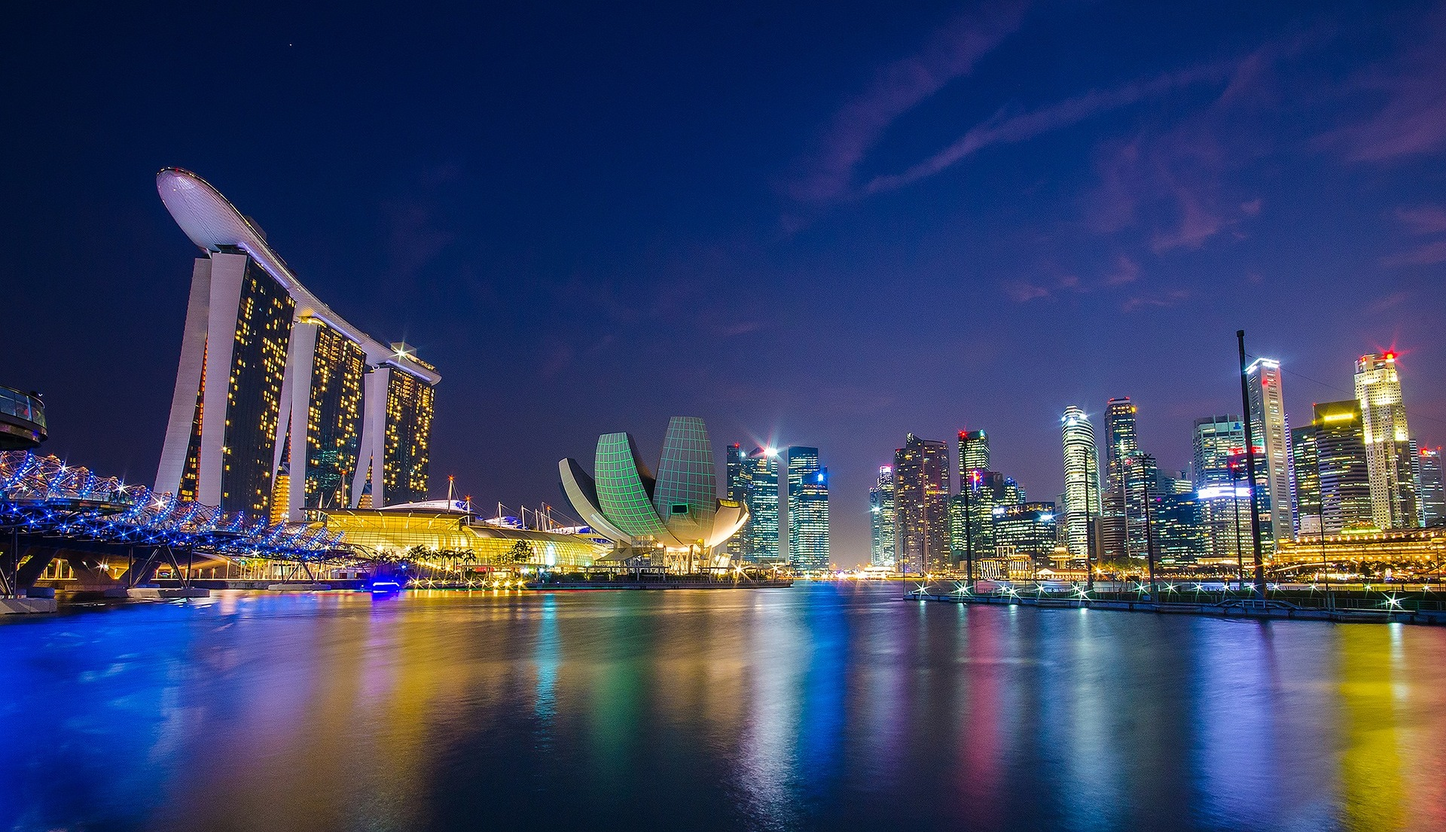
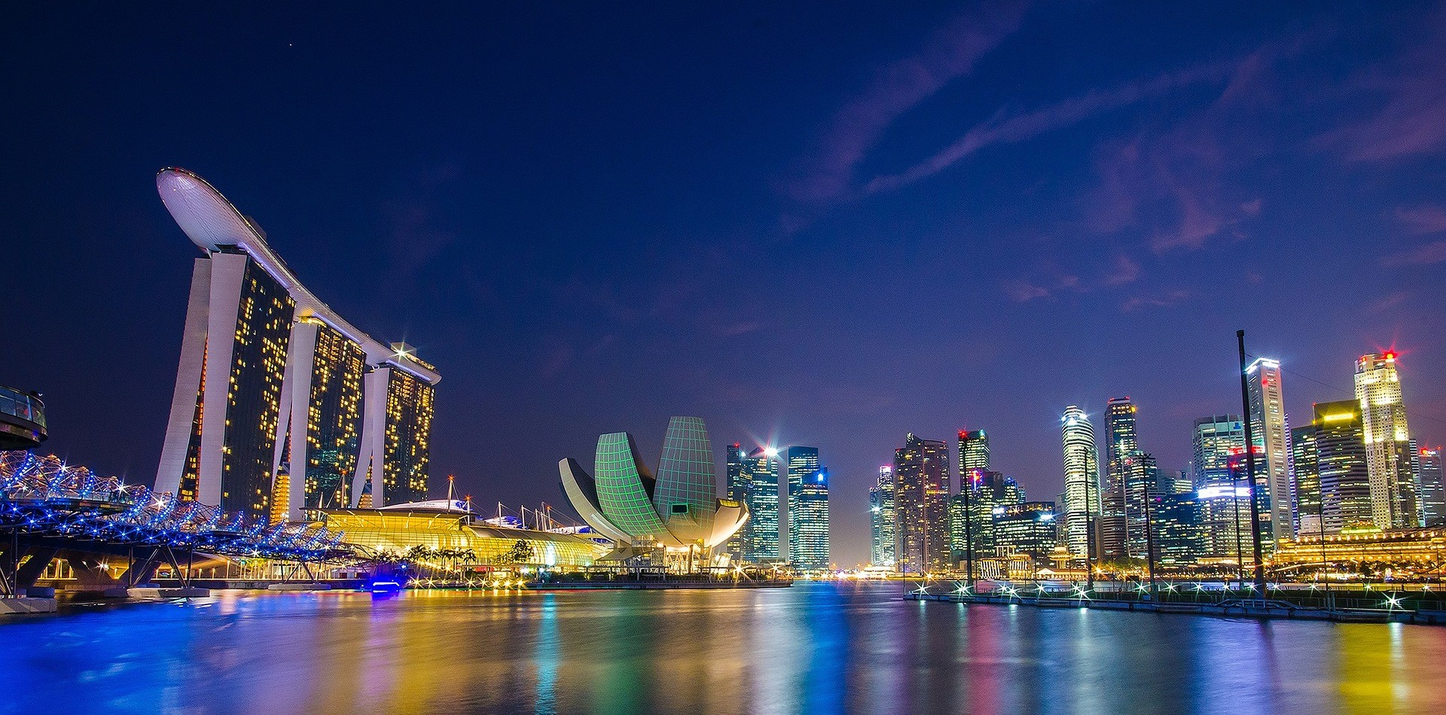
7.1.7

diff --git a/index.html b/index.html
@@ -1,3 +1,6 @@
+<!-- ===============
+CREATED BY ENERLINK 
+==================== --> 
 <!doctype html>
 <html lang="en">
 <head>
@@ -40,7 +43,7 @@
 </header>
 
 <section class="hero">
-  <div class="hero-media" style="background-image:url('assets/img/hero-Singaporehub.jpg')"></div>
+  <div class="hero-media" style="background-image:url('assets/img/hero-map.PNG')"></div>
   <div class="hero-inner">
     <div class="container hero-grid">
       <div class="hero-card">
@@ -49,7 +52,7 @@
         <p class="hero-lede">
          Enerlink Pte. Ltd., is a Singapore-based oil trading company operating across diverse product lines and global 
          markets.  With a strategic focus on Asia, the Middle East, and Europe, we serve a wide network 
-         of customers and suppliers, including oil majors, national oil companies, and trading firms.
+         of customers and suppliers, including Major Oils, National Oil Companies, and Giant Trading Firms.
 
         </p>
         <div class="hero-actions">

diff --git a/about.html b/about.html
@@ -1,4 +1,7 @@
-<!doctype html>
+<!-- ===============
+CREATED BY ENERLINK 
+==================== --> 
+doctype html>
 <html lang="en">
 <head>
   <meta charset="utf-8" />
@@ -40,7 +43,7 @@
 </header>
 
 <section class="hero" style="min-height: 58vh;">
-  <div class="hero-media" style="background-image:url('assets/img/hero-arab.jpg')"></div>
+  <div class="hero-media" style="background-image:url('assets/img/hero-Singaporehub.jpg')"></div>
   <div class="hero-inner">
     <div class="container hero-grid">
       <div class="hero-card">

diff --git a/assets/css/styles.css b/assets/css/styles.css
@@ -1,5 +1,5 @@
 /* =========================
-   ENERLINK — Luxury Emerald UI
+   CREATED BY ENERLINK 
    ========================= */
 
 :root{
@@ -72,7 +72,7 @@ button,input,textarea{font:inherit}
   letter-spacing: .12em;
   text-transform: uppercase;
   font-size: .82rem;
-  color: rgba(44, 43, 43, 0.896);
+  color: rgba(224, 222, 222, 0.896);
 }
 
 .h-eyebrow-top{

diff --git a/assets/js/main.js b/assets/js/main.js
@@ -1,3 +1,6 @@
+/* =========================
+   CREATED BY ENERLINK 
+   ========================= */
 (function(){
   const burger = document.querySelector('[data-burger]');
   const nav = document.querySelector('[data-nav]');

diff --git a/adobe-spark.html b/adobe-spark.html
@@ -1,3 +1,6 @@
+<!-- ===============
+CREATED BY ENERLINK 
+==================== --> 
 <!doctype html>
 <html lang="en">
 <head>

diff --git a/careers.html b/careers.html
@@ -1,3 +1,6 @@
+<!-- ===============
+CREATED BY ENERLINK 
+==================== --> 
 <!doctype html>
 <html lang="en">
 <head>

diff --git a/contact.html b/contact.html
@@ -1,3 +1,6 @@
+<!-- ===============
+CREATED BY ENERLINK 
+==================== --> 
 <!doctype html>
 <html lang="en">
 <head>

diff --git a/ethics.html b/ethics.html
@@ -1,3 +1,6 @@
+<!-- ===============
+CREATED BY ENERLINK 
+==================== --> 
 <!doctype html>
 <html lang="en">
 <head>
